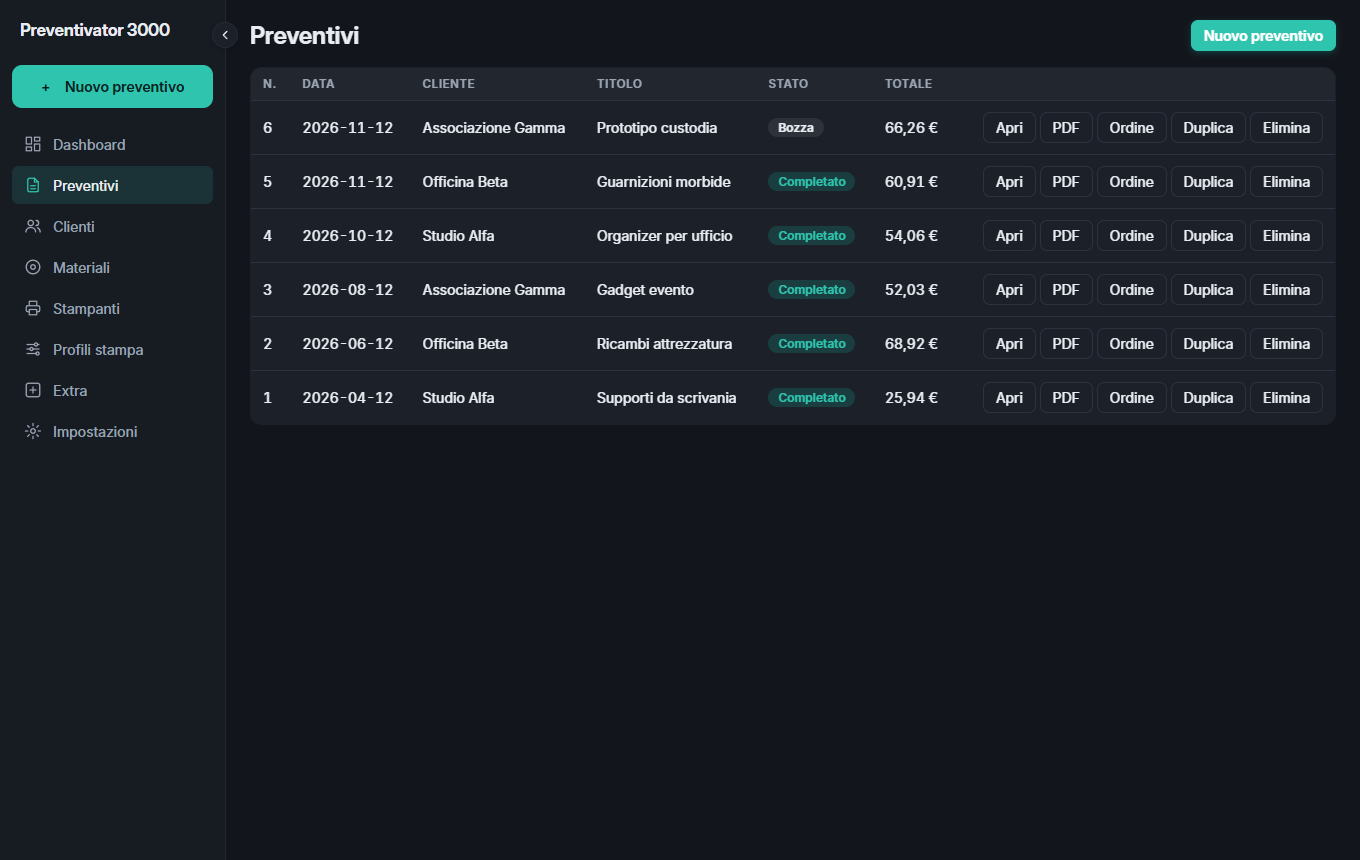
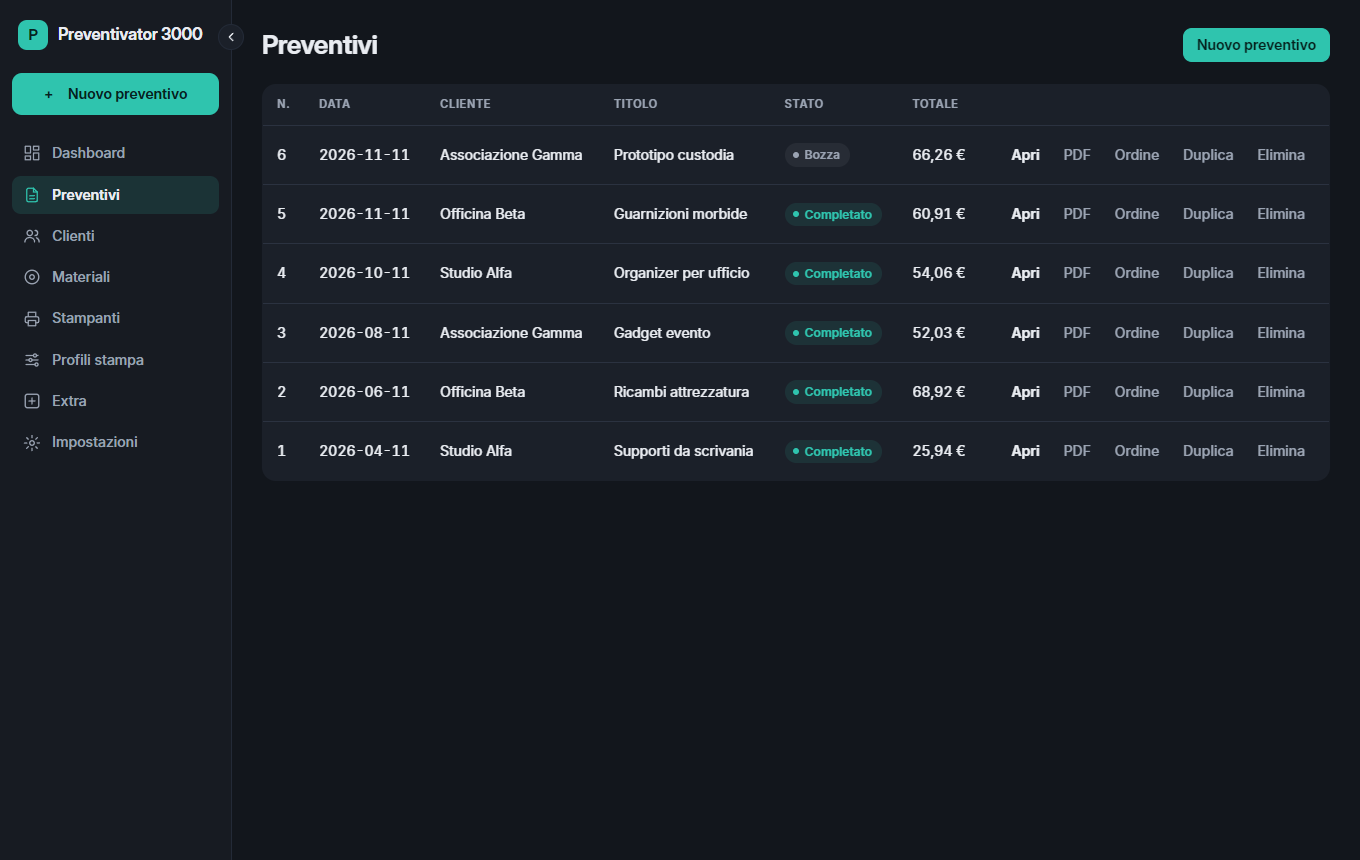
Versione 2026.11.07.3: nuova grafica

diff --git a/index.html b/index.html
@@ -1,5 +1,5 @@
 <!DOCTYPE html>
-<!--APP_VER=2026.11.07.2-->
+<!--APP_VER=2026.11.07.3-->
 <html lang="it"><head><meta charset="utf-8"><title>Preventivator 3000</title>
 <meta name="viewport" content="width=device-width,initial-scale=1">
 <style>
@@ -199,6 +199,106 @@ body.nc .ncb svg{transform:rotate(180deg)}
 .sr{display:flex;justify-content:space-between;border:1px solid var(--bd);border-radius:8px;padding:9px 10px;margin-bottom:8px;background:var(--bg)}.sr.fin{border-color:var(--ac);font-size:16px}.sr.fin b{color:var(--ac);font-size:19px}
 .sb2{display:block;width:100%;margin-top:8px;padding:10px}.go.sb2{margin-top:12px}
 
+/* ===== Rifinitura grafica: solo a schermo, i PDF non cambiano ===== */
+@media screen{
+@media(prefers-color-scheme:light){:root:not([data-theme]){--bg:#f3f4f1;--bd:#e2e4de;--sidebd:#e2e4de}}
+:root[data-theme=light]{--bg:#f3f4f1;--bd:#e2e4de;--sidebd:#e2e4de}
+:root{--tint:color-mix(in srgb,var(--ac) 11%,transparent);--tint2:color-mix(in srgb,var(--tx) 6%,transparent);--bdh:color-mix(in srgb,var(--tx) 26%,var(--bd));--ring:color-mix(in srgb,var(--ac) 26%,transparent);--sh1:0 1px 2px rgba(16,24,40,.05);--sh2:0 18px 50px rgba(8,12,20,.3)}
+body{font-size:14px;line-height:1.45}
+main{padding:26px 30px 40px}
+h2{font-size:26px;font-weight:700;letter-spacing:-.02em}
+h3{font-size:15px;font-weight:600;letter-spacing:-.008em;margin:0 0 12px}
+main>h3{margin-top:26px;margin-bottom:6px}
+.bar{margin-bottom:20px}
+.mu{line-height:1.45}
+/* barra laterale */
+nav{width:232px;padding:20px 12px}
+nav .lg{margin:0 6px 20px;font-size:16.5px;letter-spacing:-.015em}
+nav .lgm{display:grid;place-items:center;width:30px;height:30px;flex:none;border-radius:9px;background:var(--ac);color:var(--acx);font-style:normal;font-weight:700;font-size:15px}
+nav button{padding:9px 11px;border-radius:9px;font-weight:500}
+nav button.on{font-weight:600}
+nav .nq{padding:11px 12px;margin-bottom:16px;box-shadow:0 1px 2px rgba(16,24,40,.12)}
+.ncb{top:24px;box-shadow:var(--sh1)}
+/* superfici */
+.card,table,.mtab,.kpis div{border-radius:14px;box-shadow:var(--sh1)}
+.card{padding:18px;margin-bottom:14px}
+.two,.qg{gap:14px}.kpis{gap:12px;margin-bottom:10px}
+/* indicatori */
+.kpis div{display:flex;flex-direction:column;justify-content:space-between;gap:6px;border-top:3px solid var(--k,var(--ac));padding:15px 16px;font-weight:500}
+.kpis b{font-family:"Inter Display","Inter",sans-serif;font-size:25px;font-weight:700;letter-spacing:-.02em;margin-top:0}.ring::before{inset:17px}
+.lg2 div{padding:5px 0}
+.trend{gap:8px;height:150px}.trend i{background:var(--ac);border-radius:5px 5px 2px 2px;opacity:.85;min-height:2px}.trend div{gap:6px}.trend div:hover i{opacity:1;filter:none}
+/* tabelle */
+th,.mtab th{background:transparent;font-size:11px;font-weight:600;letter-spacing:.06em;padding:12px 14px}
+td,.mtab td{padding:12px 14px}
+tr:last-child td{border-bottom:0}
+tr:hover td,.mtab tbody tr:hover td{background:var(--tint2)}
+th:empty,tr:first-child:hover th{background:transparent}
+.st{display:inline-flex;align-items:center;gap:6px;padding:3px 10px 3px 8px;color:var(--mu);background:var(--tint2)}.st::before{content:"";width:6px;height:6px;border-radius:50%;background:currentColor}
+.st.Completato{background:var(--tint)}
+td.r button{background:transparent;border-color:transparent;color:var(--mu);padding:6px 9px;min-height:30px}
+td.r button:first-child{color:var(--tx);font-weight:600}
+td.r button:hover{background:var(--tint2);border-color:transparent;color:var(--tx)}
+td.r button:last-child:hover{background:rgba(229,72,77,.12);color:#e5484d}
+.mtab tr.mgh td{background:var(--tint2);padding:9px 14px}.mtab tr.mgh:hover td{background:color-mix(in srgb,var(--tx) 9%,transparent)}
+.mgi{font-size:13px}.mtab .sw{border-radius:8px}
+/* pulsanti */
+button{border-radius:9px;font-weight:500;min-height:34px;padding:6px 13px}
+main button:hover,dialog button:hover,#drw button:hover,#orm button:hover,#otat button:hover{background:var(--tint2);border-color:var(--bdh)}
+.go,button.pr{background:var(--ac);border-color:var(--ac);color:var(--acx);font-weight:600;box-shadow:0 1px 2px rgba(16,24,40,.14)}
+.go:hover:not(:disabled),button.pr:hover,main .go:hover:not(:disabled),dialog .go:hover:not(:disabled),#drw .go:hover:not(:disabled),#orm .go:hover:not(:disabled),#otat .go:hover:not(:disabled){background:var(--ac);border-color:var(--ac);filter:brightness(1.08)}
+.go:disabled{box-shadow:none}
+.rm{border:1px solid color-mix(in srgb,#e5484d 45%,transparent);color:#e5484d;font-weight:600}
+main .rm:hover,dialog .rm:hover{background:#e5484d;border-color:#e5484d;color:#fff}
+.ib{min-height:0;width:32px;height:32px;background:transparent;border-color:transparent;color:var(--mu)}
+.ib.dl{border-color:transparent;color:var(--mu)}main .ib:hover{border-color:transparent;color:var(--tx)}main .ib.dl:hover{background:rgba(229,72,77,.12);color:#e5484d}
+.sgm button.on,#orm .on{background:var(--ac);border-color:var(--ac);color:var(--acx)}
+.ieye{min-height:0}nav button,.ncb,.ieye,.cs>button{min-height:0}
+.pgn{margin-top:12px}
+/* campi */
+label,.lb{font-size:12.5px;font-weight:500}
+input,select,textarea{border-radius:9px;padding:8px 10px;min-height:37px;transition:border-color .15s,box-shadow .15s}
+textarea{line-height:1.45}
+input:hover,select:hover,textarea:hover{border-color:var(--bdh)}
+input:focus,select:focus,textarea:focus{outline:0;border-color:var(--ac);box-shadow:0 0 0 3px var(--ring)}
+button:focus-visible{outline:0;box-shadow:0 0 0 3px var(--ring)}
+input[type=checkbox],input[type=radio]{min-height:0;accent-color:var(--ac);box-shadow:none}
+input[type=file]{padding:5px 8px;color:var(--mu)}input[type=file]::file-selector-button{font:inherit;font-weight:500;color:var(--tx);background:var(--tint2);border:0;border-radius:7px;padding:5px 11px;margin-right:10px;cursor:pointer}
+label input,label select,label textarea{margin-top:5px}
+.cs>button{border-radius:9px;min-height:37px;font-weight:400}.csl,.imp{border-radius:12px;box-shadow:var(--sh2)}
+/* preventivo */
+.qe h2{letter-spacing:-.02em}.qtool{margin-bottom:14px}
+.pillx{background:var(--tint2);border-color:transparent}
+.qtb{padding-bottom:14px;margin-bottom:16px}.qtb .inl input,.qtb .inl select{margin-top:0}
+.qrow label>div>button{margin-top:5px;min-height:37px}.crow button{white-space:nowrap;flex:none}.crow input{margin-top:0}
+#dlg .bar:last-child{margin-bottom:0}
+.itc{gap:18px;border-radius:14px}
+.ipi{border-radius:12px}.ipi:not(:has(img)){background:var(--tint2)}
+.it{gap:10px}
+.kp{gap:8px;margin-bottom:12px}.kp>div{background:var(--tint2);border:0;border-radius:10px;padding:10px}.kp small{font-size:10.5px;font-weight:500;line-height:1.3}.kp b{font-family:"Inter Display","Inter",sans-serif;font-size:16px;font-weight:700;margin:3px 0}
+.sr{background:transparent;border:0;border-bottom:1px solid var(--bd);border-radius:0;margin:0;padding:9px 2px}.sr b{font-weight:600}
+.sr.fin{margin:10px 0 4px;padding:13px 14px;border:0;border-radius:12px;background:var(--tint);font-weight:600;font-size:15px;align-items:center}.sr.fin b{font-family:"Inter Display","Inter",sans-serif;font-size:22px;font-weight:700;letter-spacing:-.02em}
+.sr.fin+.sr{margin-top:6px}
+.sb2{min-height:40px;margin-top:8px}.go.sb2{margin-top:14px}
+.need input{border-color:#d97884;background:rgba(217,120,132,.08)}
+/* impostazioni */
+.thg{grid-template-columns:repeat(auto-fill,minmax(122px,1fr));margin-bottom:22px}
+.thb{border:1px solid var(--bd);border-radius:12px;padding:8px;font-weight:500;font-size:13px;min-height:0;transition:border-color .15s}.thb:hover{border-color:var(--bdh)}.thb.on{border-color:var(--ac);box-shadow:0 0 0 1px var(--ac)}
+.thb .pv{height:36px;border-radius:7px;margin-bottom:7px}
+/* finestre */
+dialog{border-radius:18px;padding:24px;box-shadow:var(--sh2)}dialog::backdrop{background:rgba(10,14,22,.5);backdrop-filter:blur(3px)}
+dialog h3{font-size:18px;font-weight:700;letter-spacing:-.015em;margin-bottom:16px}
+dialog label{margin-bottom:12px}
+#drwbg{background:rgba(10,14,22,.45);backdrop-filter:blur(2px)}
+#drw{box-shadow:var(--sh2)}#drw h4{font-weight:600}
+#orm{border-radius:18px;box-shadow:var(--sh2)}#orm canvas{border-radius:12px}
+#otat{border-radius:14px!important;box-shadow:var(--sh2)!important;border-left:1px solid var(--bd)!important}
+/* barre di scorrimento */
+::-webkit-scrollbar{width:11px;height:11px}::-webkit-scrollbar-track{background:transparent}::-webkit-scrollbar-thumb{background:color-mix(in srgb,var(--tx) 18%,transparent);border-radius:99px;border:3px solid transparent;background-clip:padding-box}::-webkit-scrollbar-thumb:hover{background:color-mix(in srgb,var(--tx) 30%,transparent);border:3px solid transparent;background-clip:padding-box}
+@media(max-width:1180px){main{padding:22px 20px 32px}}
+@media(prefers-reduced-motion:reduce){*,*::before,*::after{animation:none!important;transition:none!important}}
+}
+
 @media print{body>*:not(#pr){display:none!important}body{display:block;background:#fff;height:auto}
 #pr{display:block;color:#111;background:#fff;font:12px "Inter","Segoe UI",sans-serif;line-height:1.4}
 #pr *{-webkit-print-color-adjust:exact;print-color-adjust:exact}
@@ -362,7 +462,7 @@ function dn(o,fn,c){const k=Object.entries(o).sort((a,b)=>b[1]-a[1]),t=k.reduce(
  let a=0;const cols=k.map(([n],i)=>(c&&c(n))||PAL[i%PAL.length]);
  const g=k.map(([n,v],i)=>{const s=a/t*100;a+=v;return `${cols[i]} ${s}% ${a/t*100}%`}).join(',');
  return `<div class=dn><div class=ring style="background:conic-gradient(${g})"><span>${fn(t)}</span></div><div class=lg2>${k.map(([n,v],i)=>`<div><i style="background:${cols[i]}"></i>${esc(n)}<em>${fn(v)}</em></div>`).join('')}</div></div>`;}
-const THEMES=[['auto','Automatico','#ffffff','#12161c','#0e8f7e'],['light','Chiaro','#eceee9','#fff','#0e8f7e'],['dark','Scuro','#12161c','#1b2029','#2fc4ae'],['ocean','Oceano','#0d1b2a','#13263a','#38bdf8'],['graphite','Grafite','#1c1c1e','#2a2a2d','#8ab4f8'],['sunset','Tramonto','#1f1416','#2b1b1f','#fb923c'],['violet','Viola','#16122a','#1f1a3a','#a78bfa'],['forest','Foresta','#e6efe6','#ffffff','#2f9e5e'],['sand','Sabbia','#f3ece0','#fffdf8','#c2762b'],['rose','Rosa','#f7ecef','#ffffff','#d6467a']];
+const THEMES=[['auto','Automatico','#ffffff','#12161c','#0e8f7e'],['light','Chiaro','#f3f4f1','#fff','#0e8f7e'],['dark','Scuro','#12161c','#1b2029','#2fc4ae'],['ocean','Oceano','#0d1b2a','#13263a','#38bdf8'],['graphite','Grafite','#1c1c1e','#2a2a2d','#8ab4f8'],['sunset','Tramonto','#1f1416','#2b1b1f','#fb923c'],['violet','Viola','#16122a','#1f1a3a','#a78bfa'],['forest','Foresta','#e6efe6','#ffffff','#2f9e5e'],['sand','Sabbia','#f3ece0','#fffdf8','#c2762b'],['rose','Rosa','#f7ecef','#ffffff','#d6467a']];
 function curTheme(){try{return localStorage.getItem('p3dtheme')||'auto'}catch(e){return 'auto'}}
 function setTheme(t){const r=document.documentElement;t=='auto'?r.removeAttribute('data-theme'):r.dataset.theme=t;try{localStorage.setItem('p3dtheme',t)}catch(e){}if(cur=='set')go('set')}
 function toggleNav(){const c=document.body.classList.toggle('nc');try{localStorage.setItem('p3dnav',c?'1':'0')}catch(e){}}
